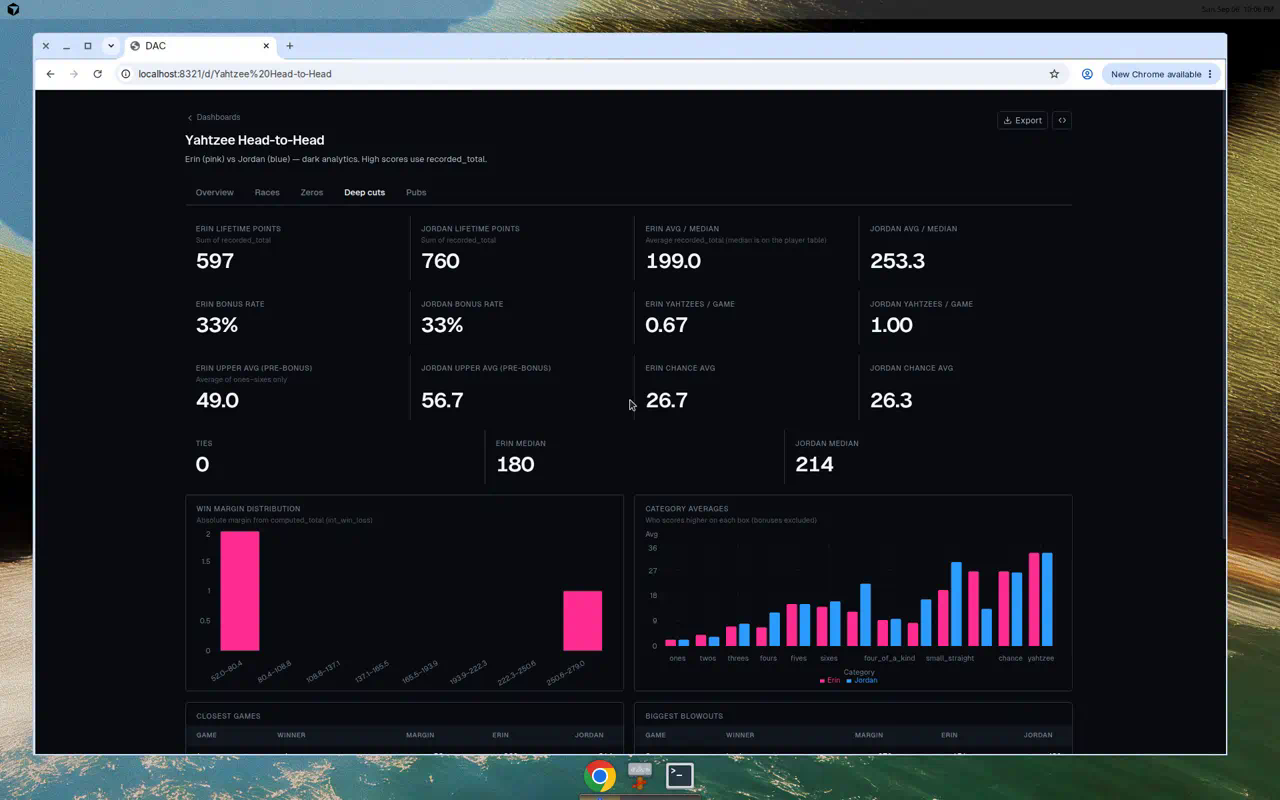
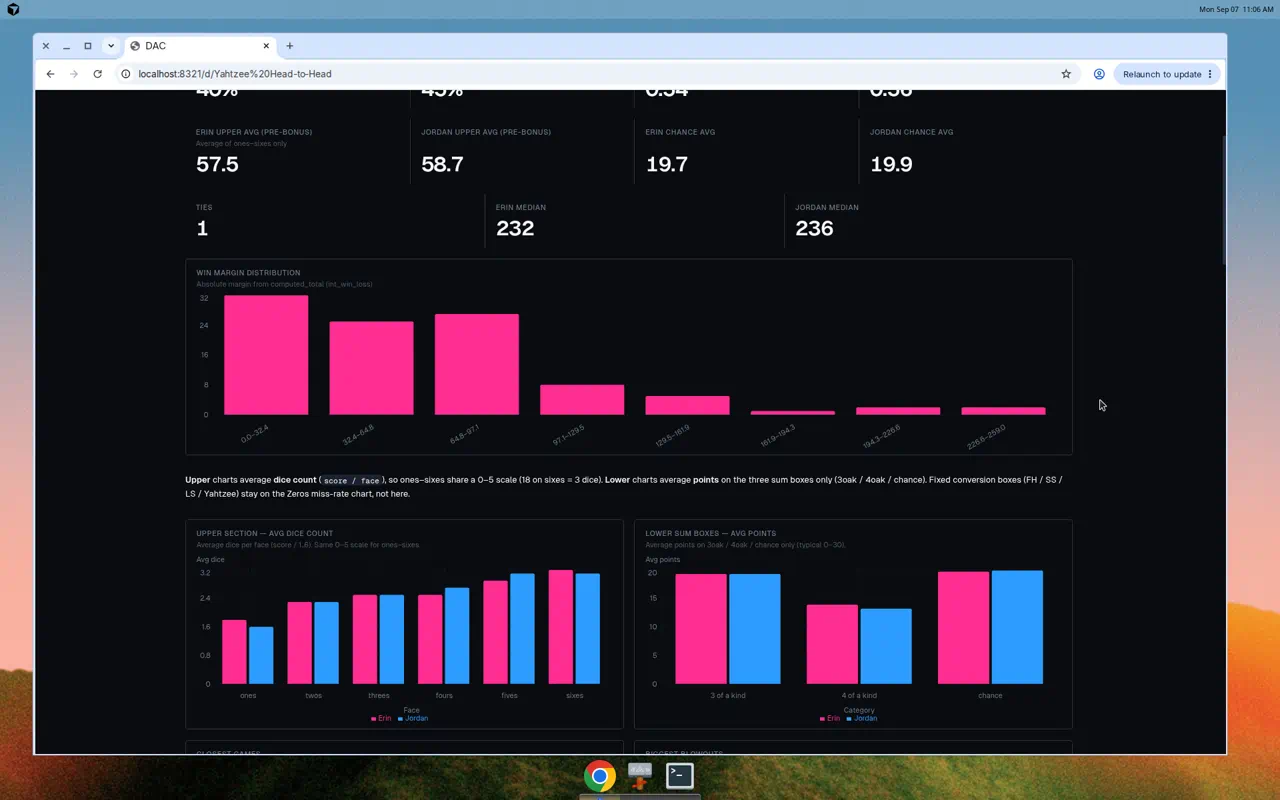
Capture Deep cuts screenshots of the split category-average charts.
Refresh deep_cuts.png from dac serve so the docs show upper dice counts
beside lower sum-box point averages.

diff --git a/dashboard/README.md b/dashboard/README.md
@@ -8,7 +8,7 @@ Erin is electric pink (`#FF2D92`), Jordan is electric blue (`#2D9CFF`).
 | **Overview** | Headline KPIs: games, wins, high scores (`recorded_total`), yahtzees, upper bonuses, multi-yahtzee player-games, streaks. Big numbers are Erin pink (`#FF2D92`), Jordan blue (`#2D9CFF`), or white for combined totals. |
 | **Races** | Cumulative wins, cumulative yahtzees, yahtzees-per-game + cumulative multi-yahtzee games (`game_seq` on x) |
 | **Zeros** | Zeros per game (bonuses excluded), lower-section miss rates (FH / SS / LS / Yahtzee), category table |
-| **Deep cuts** | Lifetime points, avg/median, bonus & yahtzee rates, upper/chance averages, margin histogram, upper avg dice count (ones–sixes, 0–5) and lower sum-box avg points (3oak / 4oak / chance), closest/blowouts, commentary |
+| **Deep cuts** | Lifetime points, rates, margin histogram, upper avg dice count (ones–sixes, 0–5) vs lower sum-box avg points (3oak / 4oak / chance), closest/blowouts, commentary |
 | **Pubs** | Link to the standalone Leaflet map + venue table. Not joined to games. |
 
 Queries hit DuckDB marts (`mart_headline_kpis`, `mart_player_kpis`,
